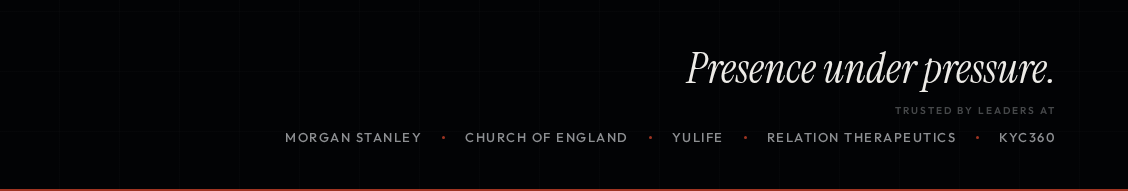
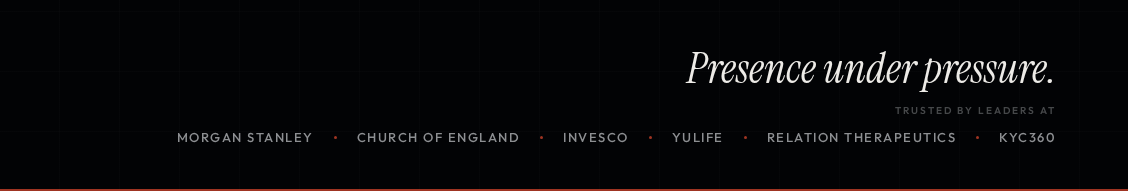
Add trust strip, Invesco to client list
- Trust strip between stats and gap section: "Trusted by leaders at" + 6 names
- Invesco added to all banners and LinkedIn company copy
- Banner PNGs regenerated

Changed region(s): [[0.1551, 0.6806, 0.5585, 0.7592]]

diff --git a/assets/style.css b/assets/style.css
@@ -469,6 +469,39 @@ button { font-family: inherit; }
   line-height: 1.5;
 }
 
+/* ─── TRUST STRIP ───────────────────────────────── */
+.trust-strip {
+  background: var(--color-bg);
+  border-bottom: 1px solid var(--color-border-faint);
+  padding: clamp(2rem, 3.5vw, 3rem) var(--section-x);
+  text-align: center;
+}
+.trust-label {
+  font-family: var(--font-sans);
+  font-size: var(--text-eyebrow);
+  font-weight: 600;
+  letter-spacing: var(--tracking-wide);
+  text-transform: uppercase;
+  color: var(--color-text-muted);
+  display: block;
+  margin-bottom: clamp(0.75rem, 1.5vw, 1.25rem);
+}
+.trust-names {
+  display: flex;
+  justify-content: center;
+  align-items: center;
+  flex-wrap: wrap;
+  gap: clamp(1rem, 2.5vw, 2rem);
+}
+.trust-names span {
+  font-family: var(--font-sans);
+  font-size: clamp(0.75rem, 1.2vw, 0.875rem);
+  font-weight: 500;
+  letter-spacing: 1.5px;
+  text-transform: uppercase;
+  color: var(--color-text-muted);
+}
+
 /* ─── SECTION: THE GAP ──────────────────────────── */
 .section-gap {
   background: var(--color-bg);

diff --git a/index.html b/index.html
@@ -109,6 +109,19 @@
   </div>
 </div>
 
+<!-- ─── TRUST STRIP ──────────────────────────────── -->
+<div class="trust-strip reveal">
+  <span class="trust-label">Trusted by leaders at</span>
+  <div class="trust-names">
+    <span>Morgan Stanley</span>
+    <span>Church of England</span>
+    <span>Invesco</span>
+    <span>YuLife</span>
+    <span>Relation Therapeutics</span>
+    <span>KYC360</span>
+  </div>
+</div>
+
 <!-- ─── THE GAP ───────────────────────────────────── -->
 <section class="section-gap reveal" id="gap">
   <div class="gap-header">

diff --git a/assets/og-templates/banner-company.html b/assets/og-templates/banner-company.html
@@ -79,6 +79,8 @@
       <span class="client-sep"></span>
       <span class="client">Church of England</span>
       <span class="client-sep"></span>
+      <span class="client">Invesco</span>
+      <span class="client-sep"></span>
       <span class="client">YuLife</span>
       <span class="client-sep"></span>
       <span class="client">Relation Therapeutics</span>

diff --git a/assets/og-templates/banner-linkedin.html b/assets/og-templates/banner-linkedin.html
@@ -86,6 +86,8 @@
       <span class="client-sep"></span>
       <span class="client">Church of England</span>
       <span class="client-sep"></span>
+      <span class="client">Invesco</span>
+      <span class="client-sep"></span>
       <span class="client">YuLife</span>
       <span class="client-sep"></span>
       <span class="client">Relation Therapeutics</span>

diff --git a/assets/og-templates/banner-twitter.html b/assets/og-templates/banner-twitter.html
@@ -85,6 +85,8 @@
       <span class="client-sep"></span>
       <span class="client">Church of England</span>
       <span class="client-sep"></span>
+      <span class="client">Invesco</span>
+      <span class="client-sep"></span>
       <span class="client">YuLife</span>
       <span class="client-sep"></span>
       <span class="client">Relation Therapeutics</span>

diff --git a/assets/linkedin-company-copy.md b/assets/linkedin-company-copy.md
@@ -11,7 +11,7 @@ The problem is never ability. Not once, in any of the work we've done, has the p
 
 We diagnose where the gap opens, build new defaults through live rehearsal against real stakes, and stay in it until the change holds under pressure without prompting. That's the work. It's precise, it's fast, and the relationship matters — because this kind of change doesn't happen without trust.
 
-Clients include Morgan Stanley, Church of England, YuLife, Relation Therapeutics, and KYC360.
+Clients include Morgan Stanley, Church of England, Invesco, YuLife, Relation Therapeutics, and KYC360.
 
 Intake by referral or application.
 
